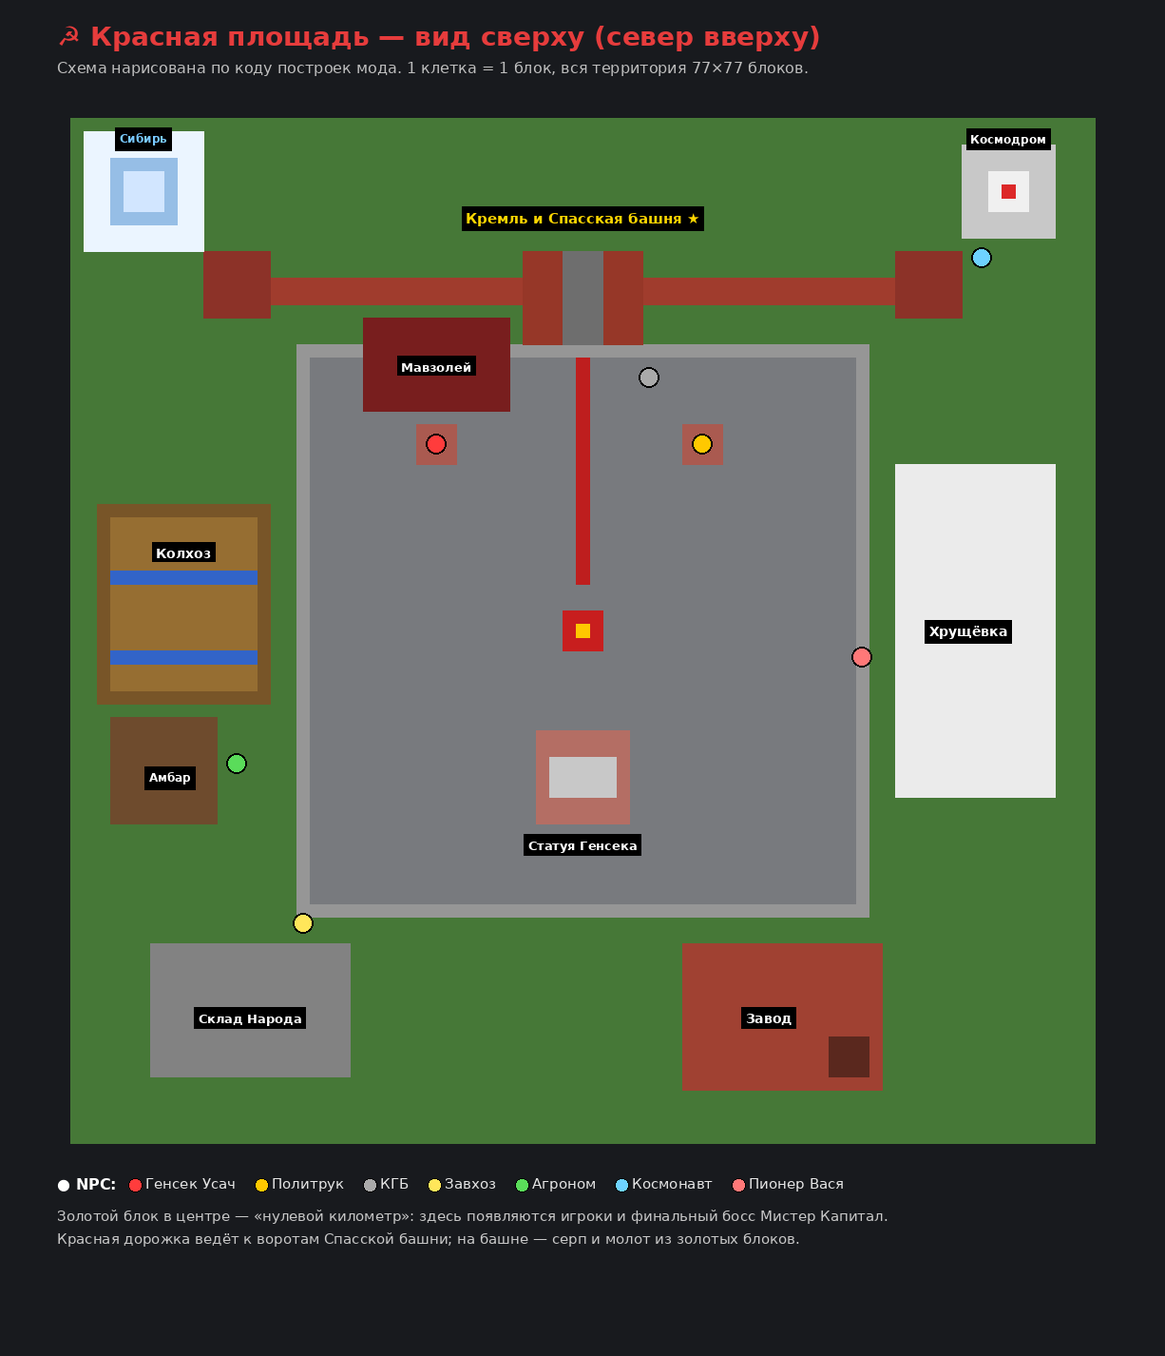
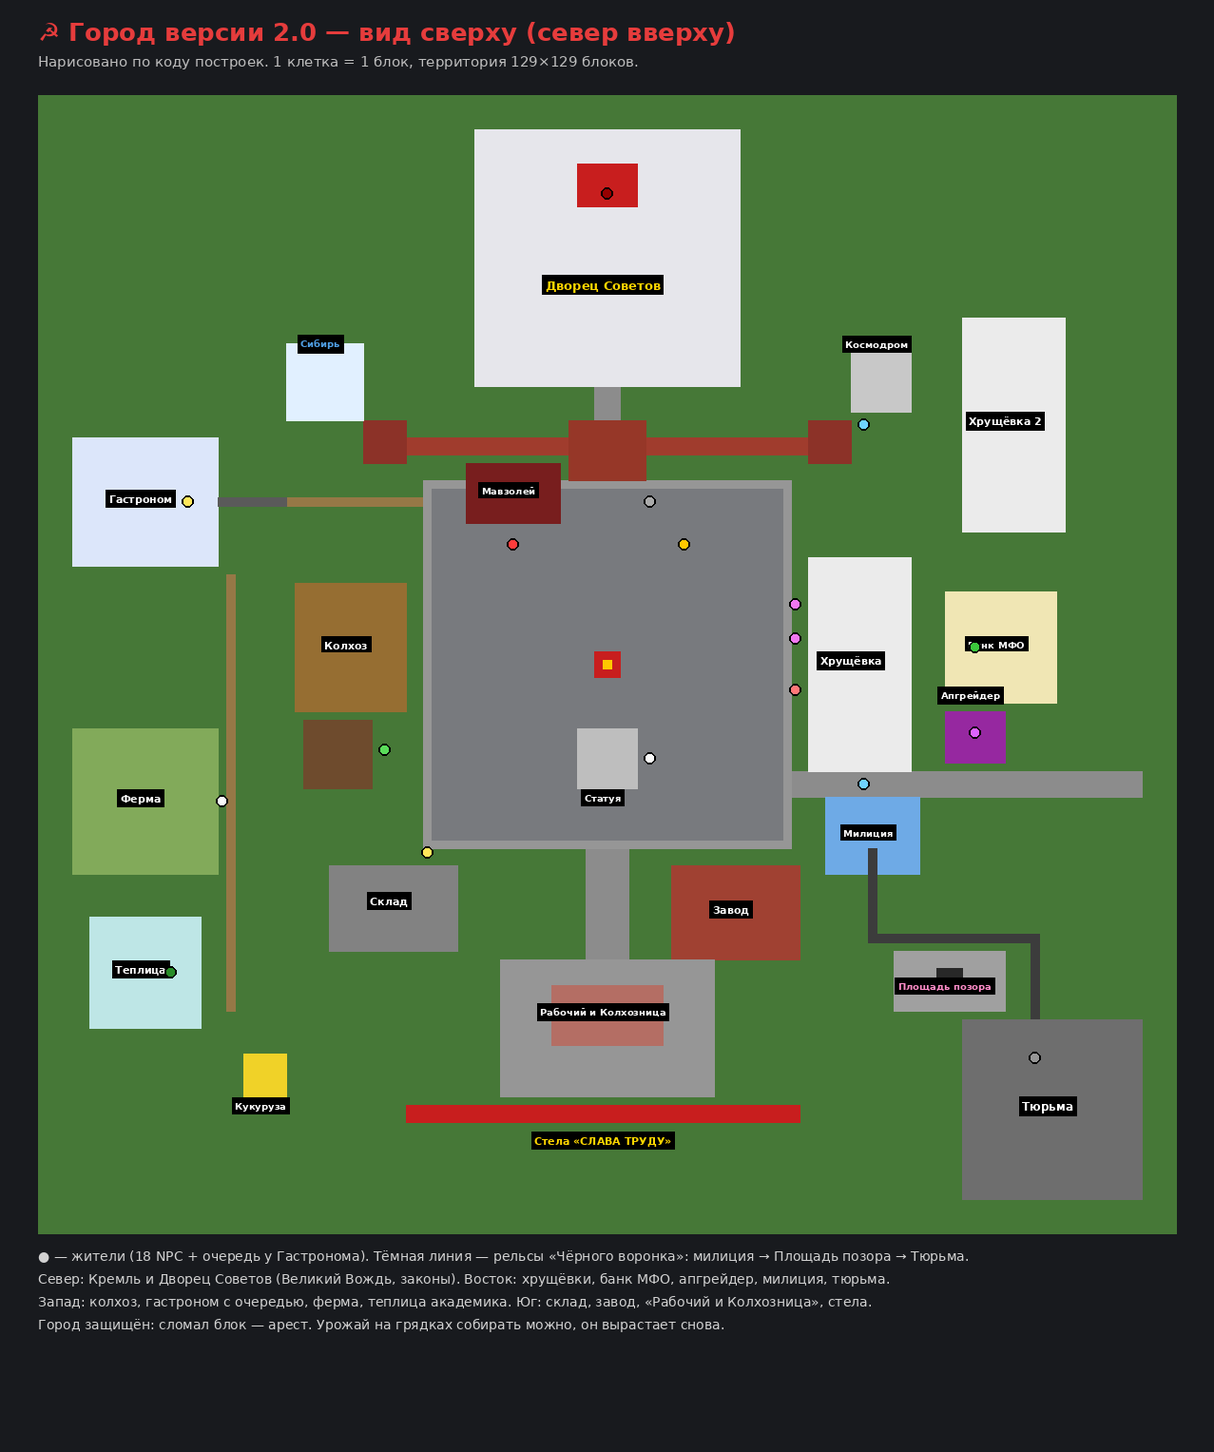
README и схема города для версии 2.0
Claude-Session: https://claude.ai/code/session_01FBXitjvwCtN4E1zgYkN2bH

diff --git a/README.md b/README.md
@@ -1,69 +1,80 @@
-# ☭ Мод про Коммунизм (Fabric 1.21.11)
+# ☭ Мод про Коммунизм 2.0 (Fabric 1.21.11)
 
-Абсурдный кооперативный мод на 1–5 игроков. Генсек Усач, Пятилетка, указы партии каждые 10 минут,
-законы, выговоры от КГБ, ссылка в Сибирь, хрущёвки и финальная битва с **Мистером Капиталом**.
+Абсурдный кооперативный мод на 1–5 игроков. Великий Вождь и его законы, Пятилетка, указы партии каждые 10 минут,
+милиция с вагонеткой «Чёрный воронок», тюрьма, площадь позора, микрозаймы, апгрейдер, игрок-Генсек
+и финальная битва с **Мистером Капиталом**.
 
-Мод полностью серверный: друзьям, которые заходят к вам по LAN или на сервер, ставить его не нужно.
+Мод работает на стороне сервера: друзьям, которые заходят по LAN или на сервер, ставить его не нужно.
+Все окна — это родные диалоговые окна Minecraft 1.21.11, их присылает сервер.
+
+![Схема города](docs/plaza-map.png)
 
 ## Установка
 1. Fabric Loader для 1.21.11 + Fabric API.
-2. Положите `communism-mod-1.0.0.jar` в папку `mods`.
-3. Сборка вручную: `./gradlew build`, jar будет в `build/libs/`.
+2. `communism-mod-2.0.0.jar` → папка `mods`.
+3. Зайдите в мир: через несколько секунд вокруг вас вырастет город.
 
-![Схема Красной площади](docs/plaza-map.png)
+## Главные цели
+1. **Пятилетка** (5 этапов: Коллективизация → Индустриализация → Электрификация → Космическая программа → Светлое будущее).
+   Ресурсы сдаются **Председателю Госплана** у Мавзолея (окно с кнопками «Сдать из руки» / «Сдать всё подходящее»).
+2. **Финал:** Мистер Капитал — гигантский золотой босс. Победа = «Коммунизм построен».
+3. **Смена власти:** после **10 законов** Великий Вождь устаёт, рассказывает об этом во Дворце Советов,
+   улетает на ракете на дачу на Луне и **случайно выбирает Генсеком одного из игроков**.
+   Генсек получает «Печать Генсека» (ПКМ): издаёт и отменяет законы, объявляет указы, амнистию, праздники, награждает товарищей.
 
-## Главная цель
-При первом входе вокруг игрока строится **Красная площадь**. Чтобы построить коммунизм:
-1. **Год 1 — Коллективизация:** пшеница, картофель, морковь, брёвна.
-2. **Год 2 — Индустриализация:** уголь, железо, медь, булыжник.
-3. **Год 3 — Электрификация:** редстоун, золото, лазурит, стекло.
-4. **Год 4 — Космическая программа:** порох, алмазы, обсидиан, фейерверки.
-5. **Год 5 — Светлое будущее:** огненные стержни, жемчуг Края, алмазы, изумруды.
-6. **Финал:** поговорите с Генсеком, и он вызовет **Мистера Капитала**, гигантского золотого вызывателя
-   с полоской здоровья. Босс вызывает буржуев, насылает «инфляцию», раскидывает взятки и уходит в офшор.
-7. **Победа:** коммунизм построен. Голода больше нет, магазин бесплатный, Генсек раз в 5 минут
-   выдаёт каждому подарок «по потребностям».
+## Законы (новое!)
+Законы издаёт **Великий Вождь** во **Дворце Советов** (за Кремлём). Новый закон — каждые 6 минут,
+одновременно действуют **3 последних**. Их видно в отдельной полосе вверху экрана и в окне «Свод законов».
+Игроки могут сами предложить закон (10 трудодней).
 
-Сдавать ресурсы нужно Генсеку: ПКМ сдаёт предмет из руки, Shift+ПКМ сдаёт всё подходящее.
-С каждым игроком квоты растут на 25%. Прогресс и таймер указа видны в полоске сверху.
+20 законов, каждый проверяется по-настоящему:
+о коллективизме · о буржуйском металле (золото изымается) · о трудовой дисциплине (кровати не работают) · сухой закон ·
+о мирном небе (без PvP) · о всеобщей зарядке (10 прыжков за 30 секунд) · о плановой экономике · о бережливости (смерть — нарушение) ·
+о вежливости (в чате — слово «товарищ») · о прямохождении (не приседать) · «Взгляд на Восток» (не смотреть на запад!) ·
+о спокойствии (не бегать) · о головных уборах · налог на воздух (за прыжки) · о вегетарианстве (колбаса — не мясо) ·
+об отмене гравитации · об отмене ночи · о спекуляции (не торговать с жителями деревень) · о минуте почтения (поклониться) · о тишине (короткие сообщения).
 
-## Постройки
-Кремлёвская стена со Спасской башней, звёздами и гербом. Мавзолей с сундуком внутри. Статуя Генсека с усами.
-Пятиэтажная хрущёвка с квартирами на каждом этаже (кровати, печки, ковёр на стене). Колхоз со спелым урожаем,
-пугалом и амбаром. Склад Народа, завод с дымящей трубой, космодром с ракетой и Сибирь с ледяной камерой.
+**Нарушение:** сначала предупреждение, повтор за 2 минуты — выговор. **3 выговора — арест.**
 
-## NPC
-| NPC | Что делает |
-|---|---|
-| **Генсек Усач** | принимает ресурсы для Пятилетки, произносит речи, начинает финальную битву |
-| **Политрук Задорный** | выдаёт задания (зомби-кулаки, скелеты-белогвардейцы, шахта, лесозаготовка...) |
-| **Майор Бдительный (КГБ)** | выдаёт выговоры, рассказывает про закон, сдаёт самого ленивого; Shift+ПКМ «теряет» выговор за 10 трудодней |
-| **Завхоз Петрович** | продаёт товары за трудодни: колбасу, ушанку, ватник, Серп, Молот Пролетариата, «Крылья Советов» |
-| **Агроном Колосков** | бесплатный набор семян раз в 10 минут |
-| **Космонавт Звёздочкин** | запускает на ракете за 500–900 блоков, удобно искать ресурсы |
-| **Пионер Вася** | даёт советы и мелкие подарки |
-| **Буржуи** | враги: воруют вещи (после смерти буржуя вещи выпадают обратно) |
+## Город и правосудие
+**В городе ничего нельзя ломать** (кроме урожая — он вырастает снова). Сломал → сразу арест.
+Приходит милиционер, нарушителя сажают в вагонетку и везут по рельсам, а после наказания — обратно на станцию. Наказания:
+- **Тюрьма «Светлый путь»** — 60 секунд в камере; если долбить камень в камере, срок сокращается;
+- **Площадь позора** — стоишь у столба, граждане кидаются снежками и «помидорами»;
+- **Исправительные работы** на колхозе — собрать 12 растений;
+- **Штраф**, **конфискация** (вещь уходит на Склад Народа), **лекция о вреде капитализма**, **ссылка в Сибирь**.
 
-## Указы Партии (каждые 10 минут, случайно)
-Равенство (здоровье у всех поровну) · Национализация (вещи переходят товарищу) · Очередь за колбасой ·
-Урожай с неба · Субботник · Нашествие буржуев · Космическая гонка · Сибирские морозы · Пятилетка за три года (×2) ·
-Квартирный вопрос (рядом появляется квартира) · Парад с салютом · Дефицит · Партсобрание (телепорт на площадь) ·
-Перестановка кадров (игроки меняются местами) · Бюрократия (Форма №37-Б) · Кукуруза · Соцсоревнование.
+## Жители (18 + очередь)
+Великий Вождь · Председатель Госплана · Политрук · Майор КГБ (выговоры, взятки, доносы) · Завхоз (магазин) · Агроном ·
+Космонавт (полёт за 500–900 блоков) · Пионер Вася · Бабки Зина и Валя на лавочке · Поэт-агитатор · Банкир (микрозаймы) ·
+Апгрейдер · Участковый · Надзиратель (УДО) · Продавщица Галя (товар дня) · Доярка · Академик · очередь у Гастронома.
 
-## Законы (новый каждые 20 минут)
-Коллективизм · Буржуйский металл (золото конфискуется) · Трудовая дисциплина (кровати не работают) ·
-Сухой закон · Мирное небо (без PvP) · Всеобщая зарядка · Плановая экономика · Бережливость (за смерть выговор) ·
-Вежливость (в каждом сообщении в чате должно быть слово «товарищ»!).
+## Микрозаймы — МФО «Серп и Процент»
+4 займа (от «До получки» до «Ударного ипотечного»). Просрочка: коллекторы списывают трудодни, долг растёт,
+а должника забирает милиция.
 
-**3 выговора = 45 секунд в Сибири.**
+## Апгрейдер «Госудача»
+Берёте предмет в руку, выбираете ×2 / ×3 / ×5 / ×10 — с шансом 45/29/17/8% получаете предмет дороже,
+иначе ставка уходит «в Фонд Мира».
 
-## Трудодни и звания
-Трудодни дают за сдачу плана, задания, убитых буржуев, добычу блоков и указы.
-Звания: Пионер → Комсомолец → Член Партии → Ударник Труда → Герой Труда → Маршал Коммунизма.
-За каждое новое звание полагается подарок.
+## Задания
+21 задание у 6 жителей: убить мобов, накопать руды, собрать подписи, посетить Сибирь, Космодром и тюрьму,
+надои, макулатура, кукурузная кампания, отстоять очередь в Гастроном и другие.
+
+## Указы Партии (каждые 10 минут)
+20 указов: равенство, национализация, очередь за колбасой, урожай с неба, субботник, нашествие буржуев,
+космическая гонка, морозы, пятилетка за три года, квартирный вопрос, парад, дефицит, партсобрание,
+перестановка кадров, бюрократия, кукуруза, **амнистия, выборы, день милиции**, соцсоревнование.
+
+## Что в городе
+Красная площадь, Кремль со Спасской башней, Мавзолей, статуя Генсека, **Дворец Советов** (сталинская высотка с тронным залом),
+две хрущёвки, колхоз, склад, завод, космодром, Сибирь, **милиция и рельсы**, **тюрьма** с камерами и вышкой,
+**Площадь позора**, **банк МФО**, **киоск апгрейдера**, **Гастроном с очередью**, **ферма с коровами**, **теплица академика**,
+**памятник кукурузе**, **«Рабочий и Колхозница»** с гигантскими киркой и мотыгой, **стела «СЛАВА ТРУДУ»**,
+**автомат газированной воды** и **телефонная будка** (жмите кнопки).
 
 ## Команды
-`/komm` (или `/kommunizm`, `/ussr`): статус · `plan` · `zakon` · `ukazy` · `zadanie` · `magazin` · `metro` (на площадь за 3 трудодня)
+`/komm` — главное меню (окно) · `/komm zakony` — свод законов · `/komm metro` — на площадь за 3 трудодня · `/komm vlast` — пульт Генсека.
 
-Для операторов: `/komm admin ukaz [n]`, `zakon <n>`, `etap <n>`, `vypolnit`, `boss`, `trud <n>`, `npc`, `timer <сек>`,
-`postroit <ploshad|hrushevka|kvartira|statuya|raketa|sibir|mavzoley|zavod|kolhoz|sklad>`.
+Для операторов: `/komm admin ukaz [n]`, `zakon <n>`, `otstavka`, `arest [n]`, `etap <n>`, `vypolnit`, `boss`, `trud <n>`, `npc`,
+`timer <сек>`, `postroit gorod|kvartira`.
